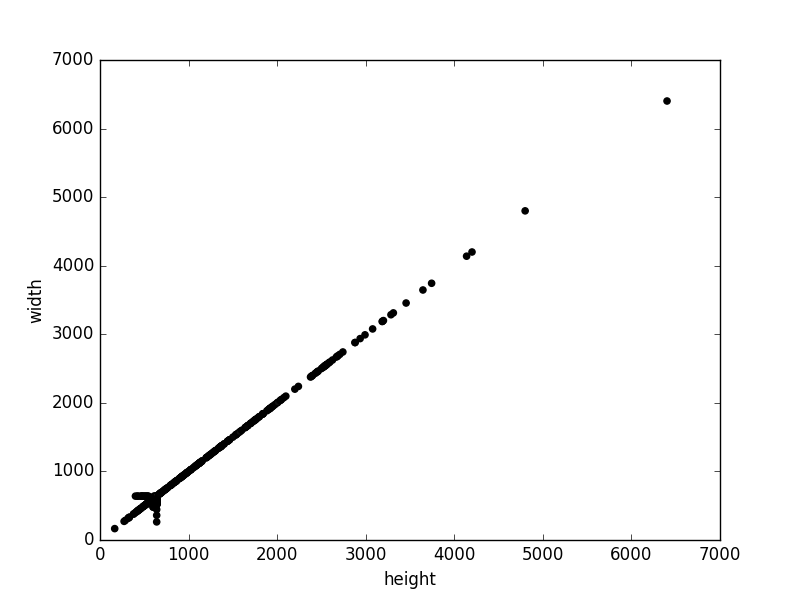
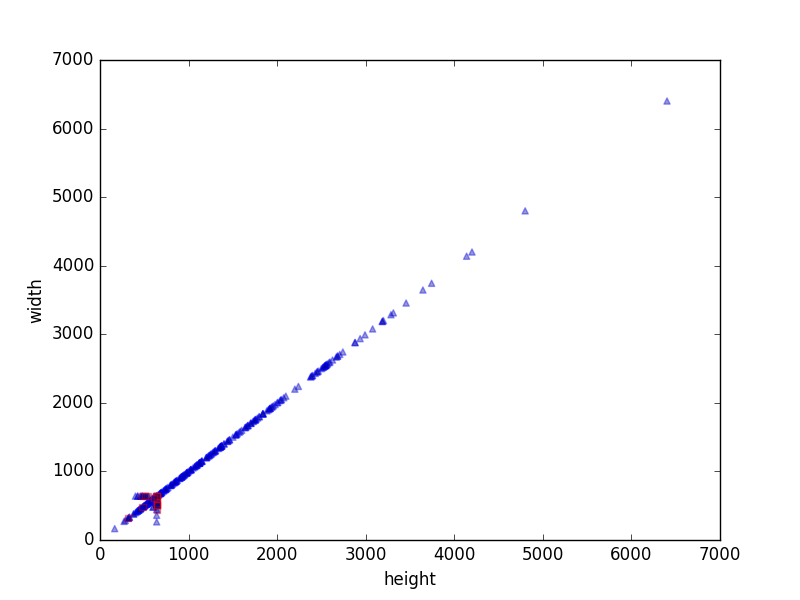
more structured

diff --git a/naive.py b/naive.py
@@ -1,5 +1,4 @@
-import sys, os, json, shutil, cv2
-import numpy as np
+import os
 from keras.preprocessing.image import ImageDataGenerator
 from keras.callbacks import ModelCheckpoint
 from keras.models import Sequential
@@ -7,116 +6,154 @@ from keras.layers import Conv2D, MaxPooling2D
 from keras.layers import Activation, Dropout, Flatten, Dense
 from keras import backend as K
 
-# Global
-img_dir = './data/img'
-meta_dir = './data/meta'
-train_dir = './data/train'
-test_dir = './data/test'
-weights_dir = './models/naive'
+class NaiveModel(object):
+    """Simple convolutional model
 
-# Get metadata (removes duplicates)
-def get_gender_metadata(file):
-    with open(file) as x:
-        data = json.load(x)
-        return [os.path.join(img_dir, f) for f in set(data['female'])], [os.path.join(img_dir, f) for f in set(data['male'])]
-female_train, male_train = get_gender_metadata(os.path.join(meta_dir, 'train.json'))
-female_test, male_test = get_gender_metadata(os.path.join(meta_dir, 'test.json'))
-train_all = female_train + male_train
-test_all = female_test + male_test
+    Attributes:
+        model (Keras model): Keras model
+        model_dir (str): Model directory
+        name (str): Name of model
+        img_width (int): Image width
+        img_height (int): Image height
+    """
 
-# Copy files into respective directories
-def copy_files(files, directory):
-    if not os.path.exists(directory):
-        os.makedirs(directory)
-    for file in files:
-        shutil.copy2(file, directory)
-copy_files(female_train, os.path.join(train_dir, 'female'))
-copy_files(female_test, os.path.join(test_dir, 'female'))
-copy_files(male_train, os.path.join(train_dir, 'male'))
-copy_files(male_test, os.path.join(test_dir, 'male'))
+    def __init__(self, model_dir, name='naive', img_width=150, img_height=150):
+        """Create model
 
-# dimensions of our images.
-img_width, img_height = 150, 150
-nb_train_samples = len(train_all)
-nb_test_samples = len(test_all)
-epochs = 50
-batch_size = 16
+        Args:
+            model_dir (str): Model directory
+            name (str): Name of model
+            img_width (int): Image width
+            img_height (int): Image height
+        """
+        self.model_dir = model_dir
+        self.name = name
+        self.img_width = img_width
+        self.img_height = img_height
+        if K.image_data_format() == 'channels_first':
+            input_shape = (3, img_width, img_height)
+        else:
+            input_shape = (img_width, img_height, 3)
 
-if K.image_data_format() == 'channels_first':
-    input_shape = (3, img_width, img_height)
-else:
-    input_shape = (img_width, img_height, 3)
+        self.model = Sequential()
+        self.model.add(Conv2D(32, (3, 3), input_shape=input_shape))
+        self.model.add(Activation('relu'))
+        self.model.add(MaxPooling2D(pool_size=(2, 2)))
+        self.model.add(Conv2D(32, (3, 3)))
+        self.model.add(Activation('relu'))
+        self.model.add(MaxPooling2D(pool_size=(2, 2)))
+        self.model.add(Conv2D(64, (3, 3)))
+        self.model.add(Activation('relu'))
+        self.model.add(MaxPooling2D(pool_size=(2, 2)))
+        self.model.add(Flatten())
+        self.model.add(Dense(64))
+        self.model.add(Activation('relu'))
+        self.model.add(Dropout(0.5))
+        self.model.add(Dense(1))
+        self.model.add(Activation('sigmoid'))
+        self.model.compile(
+            loss = 'binary_crossentropy',
+            optimizer = 'adam',
+            metrics = ['accuracy']
+        )
 
-model = Sequential()
-model.add(Conv2D(32, (3, 3), input_shape=input_shape))
-model.add(Activation('relu'))
-model.add(MaxPooling2D(pool_size=(2, 2)))
+    def save(self):
+        """Saves the model"""
+        self.model.save_weights(os.path.join(self.model_dir, self.name+'naive.h5'))
 
-model.add(Conv2D(32, (3, 3)))
-model.add(Activation('relu'))
-model.add(MaxPooling2D(pool_size=(2, 2)))
+    def load(self):
+        """Loads the model"""
+        self.model.load_weights(os.path.join(self.model_dir, self.name+'.h5'))
 
-model.add(Conv2D(64, (3, 3)))
-model.add(Activation('relu'))
-model.add(MaxPooling2D(pool_size=(2, 2)))
+    def train(self, train_dir, test_dir, epochs=50, batch_size=16, class_weight=None):
+        """Trains the model
 
-model.add(Flatten())
-model.add(Dense(64))
-model.add(Activation('relu'))
-model.add(Dropout(0.5))
-model.add(Dense(1))
-model.add(Activation('sigmoid'))
+        Args:
+            train_dir (str): Directory with training images (organized into classes)
+            test_dir (str): Directory with testing images (organized into classes)
+            epochs (int): Number of epochs
+            batch_size (int): Batch size
+            class_weights (dict): Dictionary with class weights
+        """
+        # Data augmentation for training
+        train_datagen = ImageDataGenerator(
+            rescale = 1./255,
+            shear_range = 0.2,
+            zoom_range = 0.2,
+            channel_shift_range = 0.2,
+            horizontal_flip = True
+        )
+        train_generator = train_datagen.flow_from_directory(
+            train_dir,
+            target_size = (self.img_width, self.img_height),
+            batch_size = batch_size,
+            class_mode = 'binary'
+        )
 
-model.compile(loss='binary_crossentropy',
-              optimizer='adam',
-              metrics=['accuracy'])
-load_weights = (len(sys.argv) == 2)
-if load_weights:
-    print 'Loading weights', sys.argv[1]
-    model.load_weights(sys.argv[1])
+        # No data augmentation for testing
+        test_datagen = ImageDataGenerator(rescale = 1./255)
+        test_generator = test_datagen.flow_from_directory(
+            test_dir,
+            target_size = (self.img_width, self.img_height),
+            batch_size = batch_size,
+            class_mode = 'binary'
+        )
 
-# this is the augmentation configuration we will use for training
-train_datagen = ImageDataGenerator(
-    rescale=1. / 255,
-    shear_range=0.2,
-    zoom_range=0.2,
-    horizontal_flip=True)
+        # Checkpointing
+        checkpoint = ModelCheckpoint(
+            os.path.join(self.model_dir, self.name+'-{epoch:02d}-{val_acc:.2f}.h5'),
+            monitor = 'val_acc',
+            verbose = 1,
+            save_best_only = False,
+            mode = 'max'
+        )
+        callbacks_list = [checkpoint]
 
-# this is the augmentation configuration we will use for testing:
-# only rescaling
-test_datagen = ImageDataGenerator(rescale=1. / 255)
+        # Fit
+        self.model.fit_generator(
+            train_generator,
+            steps_per_epoch = train_generator.samples // batch_size,
+            epochs = epochs,
+            validation_data = test_generator,
+            validation_steps = test_generator.samples // batch_size,
+            class_weight = class_weight,
+            callbacks = callbacks_list
+        )
 
-train_generator = train_datagen.flow_from_directory(
-    train_dir,
-    target_size=(img_width, img_height),
-    batch_size=batch_size,
-    class_mode='binary')
+    def evaluate(self, dir, batch_size=16):
+        """Evaluated using the model
 
-test_generator = test_datagen.flow_from_directory(
-    test_dir,
-    target_size=(img_width, img_height),
-    batch_size=batch_size,
-    class_mode='binary')
+        Args:
+            dir (str): Directory with images to evaluate (organized into classes)
+            batch_size (int): Batch size
 
-# class weights to balance training
-class_weight = {
-    train_generator.class_indices['female'] : 1.,
-    train_generator.class_indices['male']: float(len(female_train))/float(len(male_train))
-}
+        Returns:
+            np.array: Numpy array with losses
+        """
+        datagen = ImageDataGenerator(rescale = 1./255)
+        generator = datagen.flow_from_directory(
+            dir,
+            target_size = (self.img_width, self.img_height),
+            batch_size = batch_size,
+            class_mode = 'binary'
+        )
+        return generator
 
-# checkpointing
-if not os.path.exists(weights_dir):
-    os.makedirs(weights_dir)
-checkpoint = ModelCheckpoint(os.path.join(weights_dir, 'naive-{epoch:02d}-{val_acc:.2f}.h5'), monitor='val_acc', verbose=1, save_best_only=False, mode='max')
-callbacks_list = [checkpoint]
+    def predict(self, dir, batch_size=16):
+        """Predicts using the model
 
-model.fit_generator(
-    train_generator,
-    steps_per_epoch=nb_train_samples // batch_size,
-    epochs=epochs,
-    validation_data=test_generator,
-    validation_steps=nb_test_samples // batch_size,
-    class_weight=class_weight,
-    callbacks=callbacks_list)
+        Args:
+            dir (str): Directory with images to predict
+            batch_size (int): Batch size
 
-model.save_weights('naive.h5')
+        Returns:
+            np.array: Numpy array with predictions
+        """
+        datagen = ImageDataGenerator(rescale = 1./255)
+        generator = predict_datagen.flow_from_directory(
+            dir,
+            target_size = (self.img_width, self.img_height),
+            batch_size = batch_size,
+            class_mode = 'binary'
+        )
+        return generator

diff --git a/stats.py b/stats.py
@@ -1,11 +1,9 @@
-import os, json, cv2
+"""Compute some stats"""
+
+import cv2
 import numpy as np
 import matplotlib.pyplot as plt
-
-# Global
-data_dir = './data'
-img_dir = os.path.join(data_dir, 'img')
-meta_dir = os.path.join(data_dir, 'meta')
+from helpers import *
 
 # Count files
 n_files = lambda x: len([f for f in os.listdir(x) if os.path.isfile(os.path.join(x, f))])
@@ -13,13 +11,8 @@ print 'File count: '
 print '  Female: %d' % n_files(os.path.join(img_dir, 'female'))
 print '  Male: %d' % n_files(os.path.join(img_dir, 'male'))
 
-# Get metadata (removes duplicates)
-def get_gender_metadata(file):
-    with open(file) as x:
-        data = json.load(x)
-        return [os.path.join(img_dir, f) for f in set(data['female'])], [os.path.join(img_dir, f) for f in set(data['male'])]
-female_train, male_train = get_gender_metadata(os.path.join(meta_dir, 'train.json'))
-female_test, male_test = get_gender_metadata(os.path.join(meta_dir, 'test.json'))
+# Get data
+female_train, female_test, male_train, male_test = get_data()
 female_all = female_train + female_test
 male_all = male_train + male_test
 print 'Metadata count: '
@@ -34,7 +27,7 @@ print '  Male: %d non-existent files' % (n_bad_files(male_all))
 
 # Plot resolutions
 def plot_resolutions(train_files, test_files, name):
-    def add_points(files, marker):
+    def add_points(files, color, marker):
         res_dict = {}
         for file in files:
             res = cv2.imread(file).shape
@@ -45,10 +38,9 @@ def plot_resolutions(train_files, test_files, name):
             heights.append(height)
             widths.append(width)
             counts.append(count)
-        plt.scatter(heights, widths, c=counts, marker=marker)
-    add_points(train_files, 'o')
-    add_points(train_files, 'x')
-    plt.gray()
+        plt.scatter(heights, widths, c=counts, color=color, marker=marker, alpha=.4)
+    add_points(train_files, 'b', '^')
+    add_points(test_files, 'r', 's')
     x1,x2,y1,y2 = plt.axis()
     plt.axis((0,x2,0,y2))
     plt.xlabel('height')

diff --git a/helpers.py b/helpers.py
@@ -1,0 +1,22 @@
+"""Global things"""
+
+import os, json
+
+# Directories
+img_dir = './data/img'
+meta_dir = './data/meta'
+train_dir = './data/train'
+test_dir = './data/test'
+weights_dir = './models'
+
+# Get metadata (removes duplicates)
+def get_gender_metadata(dir, file):
+    with open(file) as x:
+        data = json.load(x)
+        return [os.path.join(dir, f) for f in set(data['female'])], [os.path.join(dir, f) for f in set(data['male'])]
+
+# Get data
+def get_data():
+    female_train, male_train = get_gender_metadata(img_dir, os.path.join(meta_dir, 'train.json'))
+    female_test, male_test = get_gender_metadata(img_dir, os.path.join(meta_dir, 'test.json'))
+    return female_train, female_test, male_train, male_test

diff --git a/setup.py b/setup.py
@@ -1,0 +1,21 @@
+"""Create directories and copy files into respective directories"""
+
+import shutil
+from helpers import *
+
+# Make directories
+os.makedirs(train_dir)
+os.makedirs(test_dir)
+os.makedirs(weights_dir)
+
+# Copy files into directory structure
+female_train, female_test, male_train, male_test = get_data()
+def copy_files(files, directory):
+    if not os.path.exists(directory):
+        os.makedirs(directory)
+    for file in files:
+        shutil.copy2(file, directory)
+copy_files(female_train, os.path.join(train_dir, 'female'))
+copy_files(female_test, os.path.join(test_dir, 'female'))
+copy_files(male_train, os.path.join(train_dir, 'male'))
+copy_files(male_test, os.path.join(test_dir, 'male'))

diff --git a/train_naive.py b/train_naive.py
@@ -1,0 +1,20 @@
+import sys
+from helpers import *
+from naive import NaiveModel
+
+# Settings
+epochs = 50
+batch_size = 16
+img_width, img_height = 150, 150
+
+# Get class weights
+female_train, female_test, male_train, male_test = get_data()
+class_weight = {
+    0 : 1.,
+    1: float(len(female_train))/float(len(male_train))
+}
+
+# Train
+model = NaiveModel(weights_dir, 'naive', img_width, img_height)
+model.train(train_dir, test_dir, epochs, batch_size, class_weight)
+model.save()
